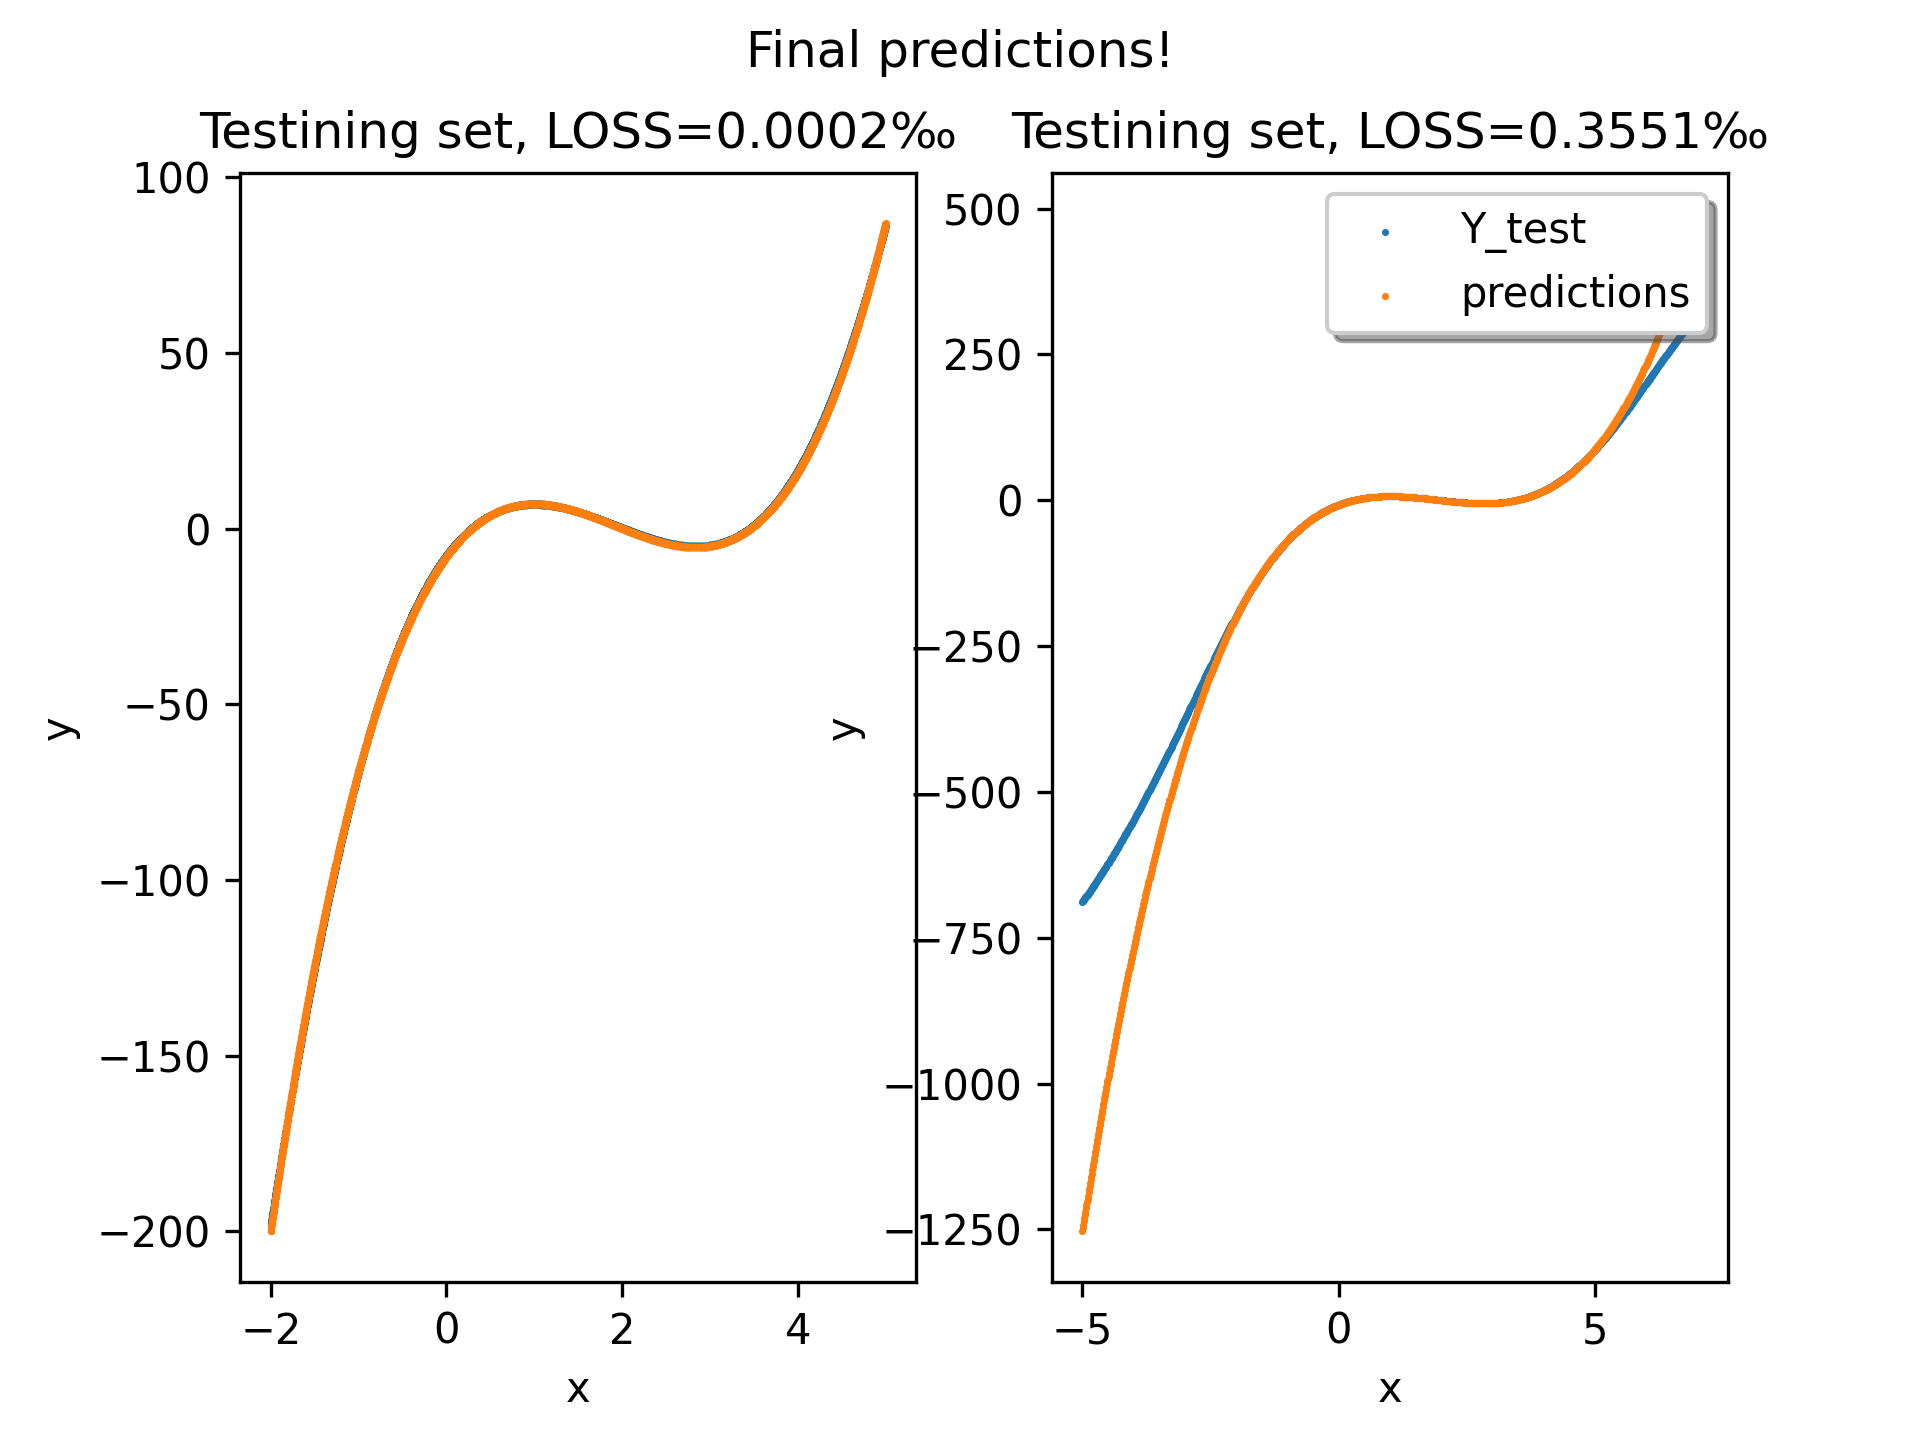
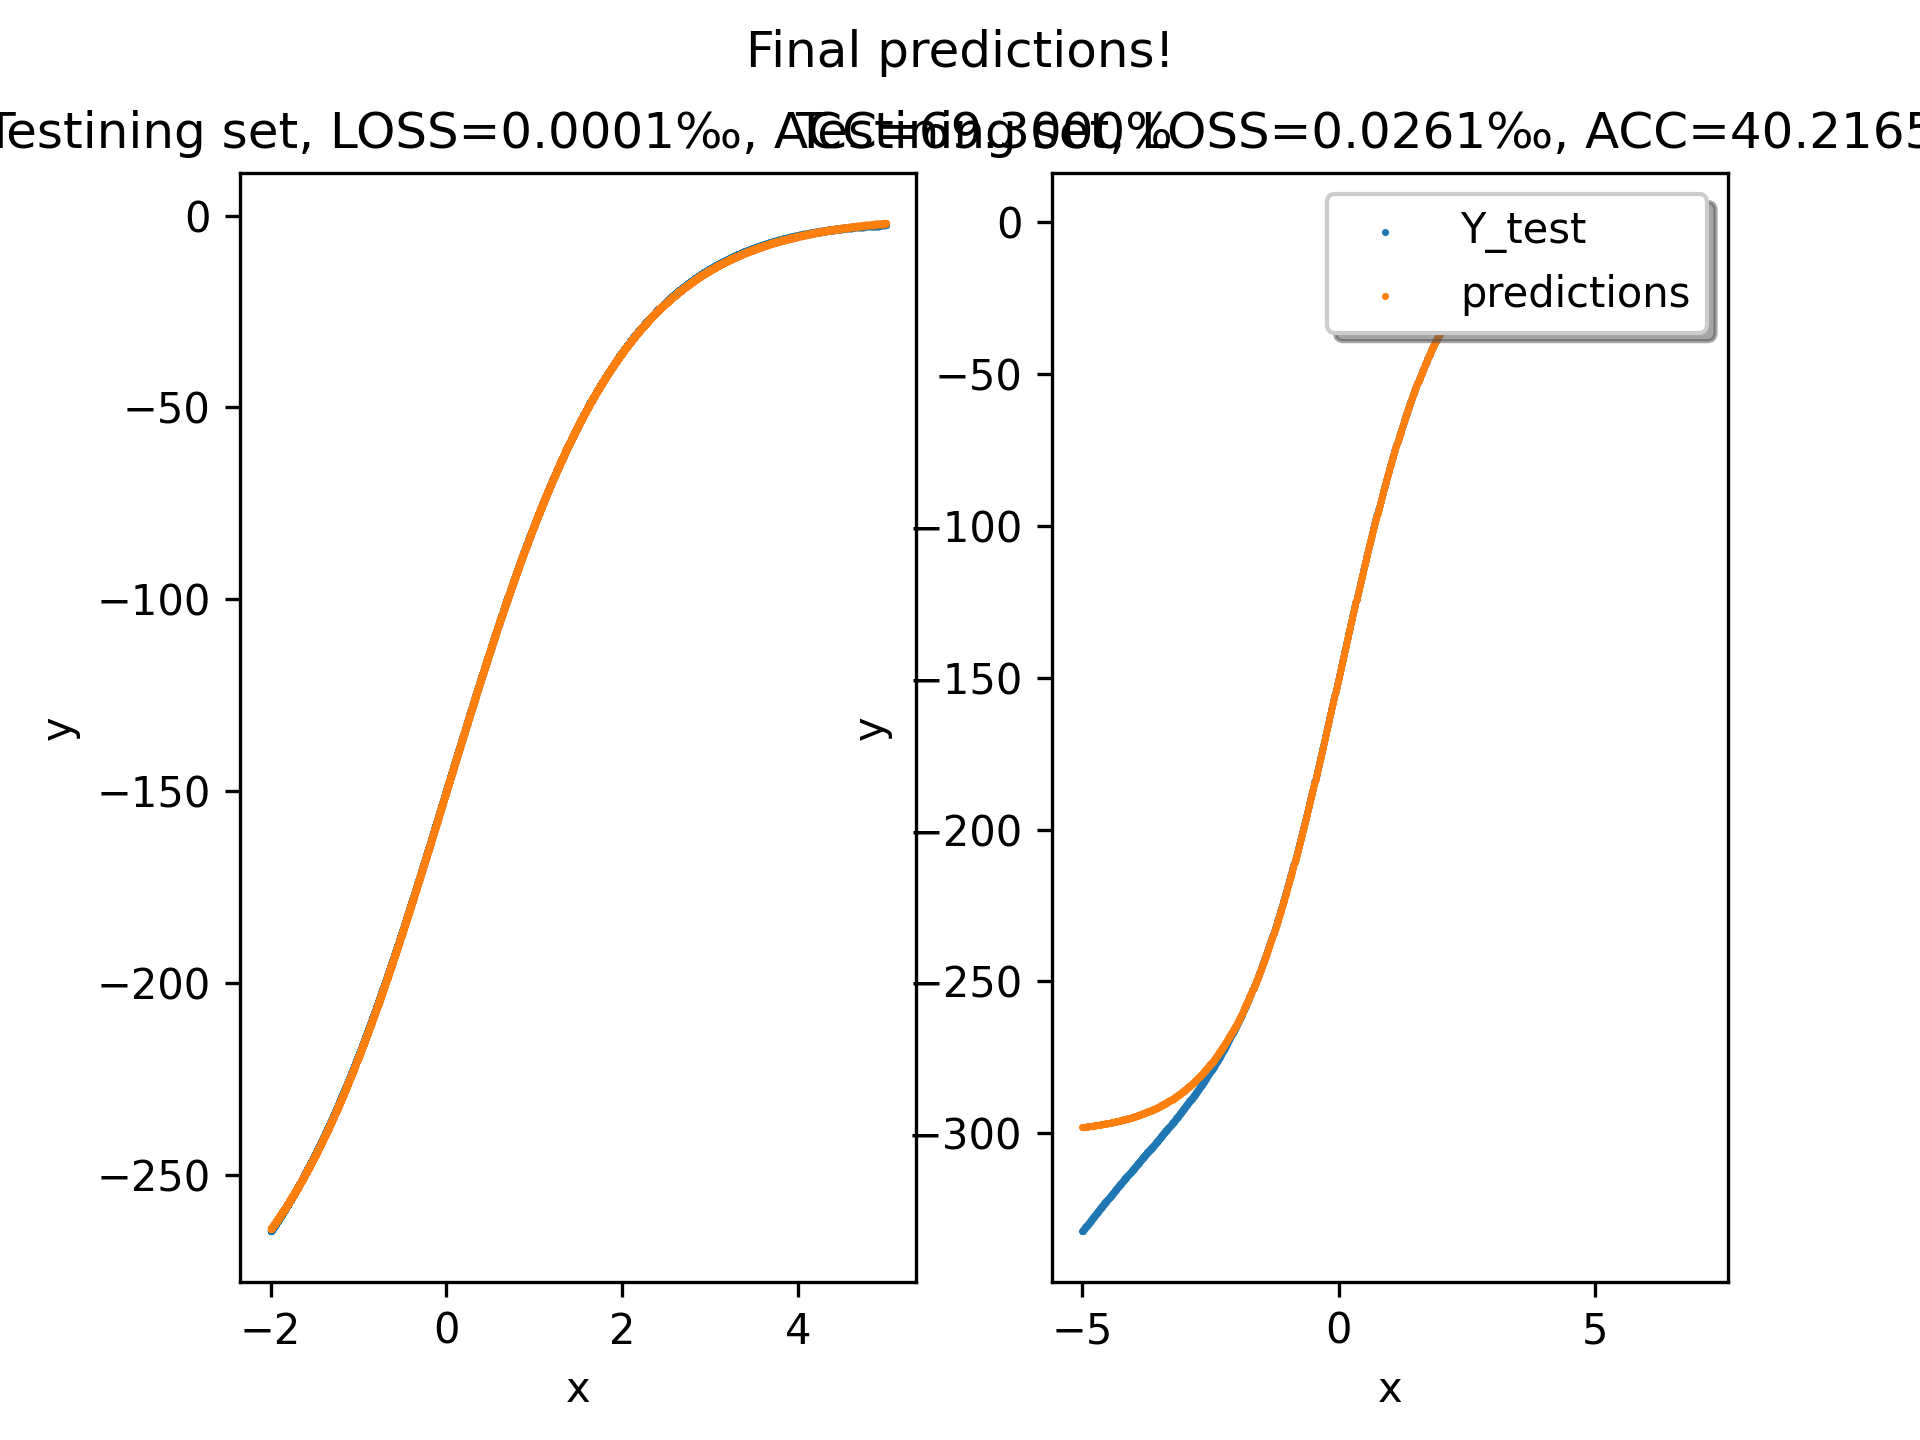
very bad mistake fixed

diff --git a/main.py b/main.py
@@ -24,7 +24,7 @@ def main():
     parser.add_argument('-F', '--file', dest='file', type=str, 
                         choices=('simple', 'three_gauss', 'circles', 'XOR', 'noisyXOR',
                          'activation', 'cube', 'linear', 'multimodal', 'square', 'mnist'), 
-                        default="circles", help='name of file')
+                        default="activation", help='name of file')
 
     parser.add_argument('-H', '--hidden-layers', dest='hidden_layers', type=int,
                         default=1, help='number of hidden layers')
@@ -37,7 +37,7 @@ def main():
 
     parser.add_argument('-p', '--problem', dest='problem', type=str, 
                         choices=('classification', 'regression'),
-                        default='classification', help='type of algorithm')
+                        default='regression', help='type of algorithm')
 
     parser.add_argument('-P', '--process', dest='process', type=int,
                         default=0, help='process number')
@@ -92,10 +92,10 @@ def main():
 
     if args['remote'] == 0:
         print("Loading train and test files")
-    # train_file = read_csv_file(args["problem"], args["file"], 'train', args["size"])
-    # test_file = read_csv_file(args["problem"], args["file"], 'test', args["size"])
-    train_file = read_csv_file_test(args["problem"], args["file"], 'train', args["size"])
-    test_file = read_csv_file_test(args["problem"], args["file"], 'test', args["size"])
+    train_file = read_csv_file(args["problem"], args["file"], 'train', args["size"])
+    test_file = read_csv_file(args["problem"], args["file"], 'test', args["size"])
+    # train_file = read_csv_file_test(args["problem"], args["file"], 'train', args["size"])
+    # test_file = read_csv_file_test(args["problem"], args["file"], 'test', args["size"])
     shuffle_index = np.random.permutation(train_file.shape[0])
     train_file = train_file[shuffle_index]
 
@@ -252,43 +252,51 @@ def main():
         #     "accuracy_verif": [] }
         #  + train_predictions + verif_predictions + test_predictions + decision_surface
         
-        net.train(batch_size, train_verif_ratio, learning_rate, relaxation, timeout, iterations_initial, args['remote'], huber_delta)
+        net.train(batch_size, train_verif_ratio, learning_rate, relaxation, timeout, iterations_initial, args['remote'], args["file"], huber_delta)
         # net.print_myself()
+        X = np.divide( train_set_coords - net.bounds_raw[0], net.bounds_raw[1] - net.bounds_raw[0] )
+        Y = np.divide( train_set_value - net.bounds_raw[2], net.bounds_raw[3] - net.bounds_raw[2] )
+        X_train = np.array([X])
+        Y_train = np.array([Y])
+        X = np.divide( test_set_coords - net.bounds_raw[0], net.bounds_raw[1] - net.bounds_raw[0] )
+        Y = np.divide( test_set_value - net.bounds_raw[2], net.bounds_raw[3] - net.bounds_raw[2] )
+        X_test = np.array([X])
+        Y_test = np.array([Y])
+        predictions_train = net.predict(train_set_coords)
+        predictions_test = net.predict(test_set_coords)
+        predictions_train_norm = np.divide( predictions_train - net.bounds_raw[2], net.bounds_raw[3] - net.bounds_raw[2] )
+        predictions_test_norm = np.divide( predictions_test - net.bounds_raw[2], net.bounds_raw[3] - net.bounds_raw[2] )
+        if args["cost"] == 'cross_entropy':
+            train_loss, accuracy_train = net.cross_entropy_loss(X_train, Y_train)
+            test_loss , accuracy_test = net.cross_entropy_loss(X_test, Y_test)
+        elif args["cost"] == 'pseudo_huber':
+            train_loss, accuracy_train = net.pseudo_huber_loss(X_train, Y_train)
+            test_loss , accuracy_test = net.pseudo_huber_loss(X_test, Y_test)
+        elif args["cost"] == 'mean_squared_error':
+            train_loss, accuracy_train = net.mean_squared_error(X_train, Y_train)
+            test_loss , accuracy_test = net.mean_squared_error(X_test, Y_test)
         if args["remote"] == 0:
-            X = np.divide( train_set_coords - net.bounds_raw[0], net.bounds_raw[1] - net.bounds_raw[0] )
-            Y = np.divide( train_set_value - net.bounds_raw[2], net.bounds_raw[3] - net.bounds_raw[2] )
-            X_train = np.array([X])
-            Y_train = np.array([Y])
-            X = np.divide( test_set_coords - net.bounds_raw[0], net.bounds_raw[1] - net.bounds_raw[0] )
-            Y = np.divide( test_set_value - net.bounds_raw[2], net.bounds_raw[3] - net.bounds_raw[2] )
-            X_test = np.array([X])
-            Y_test = np.array([Y])
-            if args["cost"] == 'cross_entropy':
-                train_loss = net.cross_entropy_loss(X_train, Y_train)
-                test_loss = net.cross_entropy_loss(X_test, Y_test)
-            elif args["cost"] == 'pseudo_huber':
-                train_loss = net.pseudo_huber_loss(X_train, Y_train)
-                test_loss = net.pseudo_huber_loss(X_test, Y_test)
-            elif args["cost"] == 'mean_squared_error':
-                train_loss = net.mean_squared_error(X_train, Y_train)
-                test_loss = net.mean_squared_error(X_test, Y_test)
-            train_predictions = net.predict(train_set_coords)
-            test_predictions = net.predict(test_set_coords)
             fig, (ax0, ax1) = pyplot.subplots(1,2)
             fig.suptitle('Final predictions!')
-            l00 = ax0.scatter(train_set_coords, train_predictions, marker="o",  s=.5)
+            l00 = ax0.scatter(train_set_coords, predictions_train, marker="o",  s=.5)
             l01 = ax0.scatter(train_set_coords, train_set_value, marker="o",  s=.5)
-            l10 = ax1.scatter(test_set_coords, test_predictions, marker="o",  s=.5)
+            l10 = ax1.scatter(test_set_coords, predictions_test, marker="o",  s=.5)
             l11 = ax1.scatter(test_set_coords, test_set_value, marker="o",  s=.5)
-            ax0.set_title('Testining set, LOSS={:.4f}‰'.format(1000*train_loss))
-            ax1.set_title('Testining set, LOSS={:.4f}‰'.format(1000*test_loss))
+            ax0.set_title('Testining set, LOSS={:.4f}‰, ACC={:.4f}%'.format(1000*train_loss, 100*accuracy_train))
+            ax1.set_title('Testining set, LOSS={:.4f}‰, ACC={:.4f}%'.format(1000*test_loss, 100*accuracy_test))
             ax0.set(xlabel='x', ylabel='y')
             ax1.set(xlabel='x', ylabel='y')
             pyplot.legend((l00, l01), ('Y_train', 'predictions'), loc='upper right', shadow=True)
             pyplot.legend((l10, l11), ('Y_test', 'predictions'), loc='upper right', shadow=True)
             pyplot.savefig('final-predictions.png', dpi=300)
             # pyplot.show()
-    print('{}_finished'.format(args['process']))
+        
+        E_train = np.abs( predictions_train_norm[0] - Y_train[0] )
+        E_test = np.abs( predictions_test_norm[0] - Y_test[0] )
+        train_accuracy = np.divide( np.sum( E_train < .001 ), len(E_train) )
+        test_accuracy = np.divide( np.sum( E_test < .001 ), len(E_test) )
+        
+    print( '{}_finished: train_accuracy={},  test_accuracy={}'.format( args['process'], train_accuracy, test_accuracy ) )
     pass
 
     

diff --git a/experiment.py b/experiment.py
@@ -222,19 +222,17 @@ def experiment(args):
         Y_test = np.array([Y])
         predictions_train = net.predict(train_set_coords)
         predictions_test = net.predict(test_set_coords)
-        Y = np.divide( predictions_train - net.bounds_raw[2], net.bounds_raw[3] - net.bounds_raw[2] )
-        predictions_train_norm = np.array([Y])
-        Y = np.divide( predictions_test - net.bounds_raw[2], net.bounds_raw[3] - net.bounds_raw[2] )
-        predictions_test_norm = np.array([Y])
+        predictions_train_norm = np.divide( predictions_train - net.bounds_raw[2], net.bounds_raw[3] - net.bounds_raw[2] )
+        predictions_test_norm = np.divide( predictions_test - net.bounds_raw[2], net.bounds_raw[3] - net.bounds_raw[2] )
         if args["cost"] == 'cross_entropy':
-            train_loss = net.cross_entropy_loss(X_train, Y_train)
-            test_loss = net.cross_entropy_loss(X_test, Y_test)
+            train_loss, accuracy_train = net.cross_entropy_loss(X_train, Y_train)
+            test_loss , accuracy_test = net.cross_entropy_loss(X_test, Y_test)
         elif args["cost"] == 'pseudo_huber':
-            train_loss = net.pseudo_huber_loss(X_train, Y_train)
-            test_loss = net.pseudo_huber_loss(X_test, Y_test)
+            train_loss, accuracy_train = net.pseudo_huber_loss(X_train, Y_train)
+            test_loss , accuracy_test = net.pseudo_huber_loss(X_test, Y_test)
         elif args["cost"] == 'mean_squared_error':
-            train_loss = net.mean_squared_error(X_train, Y_train)
-            test_loss = net.mean_squared_error(X_test, Y_test)
+            train_loss, accuracy_train = net.mean_squared_error(X_train, Y_train)
+            test_loss , accuracy_test = net.mean_squared_error(X_test, Y_test)
         if args["remote"] == 0:
             fig, (ax0, ax1) = pyplot.subplots(1,2)
             fig.suptitle('Final predictions!')
@@ -242,8 +240,8 @@ def experiment(args):
             l01 = ax0.scatter(train_set_coords, train_set_value, marker="o",  s=.5)
             l10 = ax1.scatter(test_set_coords, predictions_test, marker="o",  s=.5)
             l11 = ax1.scatter(test_set_coords, test_set_value, marker="o",  s=.5)
-            ax0.set_title('Testining set, LOSS={:.4f}‰'.format(1000*train_loss))
-            ax1.set_title('Testining set, LOSS={:.4f}‰'.format(1000*test_loss))
+            ax0.set_title('Testining set, LOSS={:.4f}‰, ACC={:.4f}%'.format(1000*train_loss, 100*accuracy_train))
+            ax1.set_title('Testining set, LOSS={:.4f}‰, ACC={:.4f}%'.format(1000*test_loss, 100*accuracy_test))
             ax0.set(xlabel='x', ylabel='y')
             ax1.set(xlabel='x', ylabel='y')
             pyplot.legend((l00, l01), ('Y_train', 'predictions'), loc='upper right', shadow=True)
@@ -251,8 +249,8 @@ def experiment(args):
             pyplot.savefig('final-predictions.png', dpi=300)
             # pyplot.show()
         
-        E_train = np.abs( predictions_train_norm - Y_train )
-        E_test = np.abs( predictions_test_norm - Y_test )
+        E_train = np.abs( predictions_train_norm[0] - Y_train[0] )
+        E_test = np.abs( predictions_test_norm[0] - Y_test[0] )
         train_accuracy = np.divide( np.sum( E_train < .001 ), len(E_train) )
         test_accuracy = np.divide( np.sum( E_test < .001 ), len(E_test) )
         
@@ -261,3 +259,4 @@ def experiment(args):
 
     
 
+# if __name__ == '__main__':

diff --git a/tests.py b/tests.py
@@ -15,8 +15,8 @@ from time import sleep
 import numpy as np
 import pandas as pd
 
-def foo(i, args):
-    return [i/7., args['process']**2/7.]
+def foo(args):
+    return [args['process']/7., args['process']**2/7.]
 
 if __name__ == '__main__':
 
@@ -77,9 +77,9 @@ if __name__ == '__main__':
     
 
     # threaded version
-    pool_classification = ThreadPool(8)
-    results = []
-    data_list = []
+    pool_classification = ThreadPool(10)
+    results_classification = []
+    data_list_classification = []
     for i, case in enumerate(all_cases_classification):
         args = {
             "activation": case[0],
@@ -107,12 +107,24 @@ if __name__ == '__main__':
             "accuracy_train": 0,
             "accuracy_test": 0
         }
-        results.append( pool_classification.apply_async(experiment, args=(args,)) )
-        data_list.append(params)
+        results_classification.append( pool_classification.apply_async(experiment, args=(args,)) )
+        data_list_classification.append(params)
     pool_classification.close()
     pool_classification.join()
     
-    pool_regression = ThreadPool(8)
+
+    results_classification = [ r.get() for r in results_classification ]
+    for i, data_row in enumerate(data_list_classification):
+        data_row["accuracy_train"] = results_classification[i][0]
+        data_row["accuracy_test"] = results_classification[i][1]
+        pass
+    df_classification = pd.DataFrame(data_list_classification)
+    print(df_classification.head())
+    df_classification.to_csv('results_classification.csv', float_format='%.2E')
+
+    pool_regression = ThreadPool(10)
+    results_regression = []
+    data_list_regression = []
     for i, case in enumerate(all_cases_regression):
         args = {
             "activation": case[0],
@@ -140,20 +152,20 @@ if __name__ == '__main__':
             "accuracy_train": 0,
             "accuracy_test": 0
         }
-        results.append( pool_regression.apply_async(experiment, args=(args,)) )
-        data_list.append(params)
+        results_regression.append( pool_regression.apply_async(experiment, args=(args,)) )
+        data_list_regression.append(params)
 
     pool_regression.close()
     pool_regression.join()
-    results = [ r.get() for r in results ]
+    results_regression = [ r.get() for r in results_regression ]
     # print('results: ', results)
-    for i, data_row in enumerate(data_list):
-        data_row["accuracy_train"] = results[i][0]
-        data_row["accuracy_test"] = results[i][1]
+    for i, data_row in enumerate(data_list_regression):
+        data_row["accuracy_train"] = results_regression[i][0]
+        data_row["accuracy_test"] = results_regression[i][1]
         pass
-    df = pd.DataFrame(data_list)
-    print(df.head())
-    df.to_csv('/mnt/foo.csv', float_format='%.2E')
+    df_regression = pd.DataFrame(data_list_regression)
+    print(df_regression.head())
+    df_regression.to_csv('results_regression.csv', float_format='%.2E')
     
 
 

diff --git a/Network.py b/Network.py
@@ -190,7 +190,7 @@ class Network:
             statistics["accuracy_train"].append(accuracy_train)
             statistics["accuracy_verif"].append(accuracy_verif)
             # stop cryterion:
-            if verif_cost < .99 * verif_cost_min:
+            if verif_cost < .98 * verif_cost_min:
                 verif_cost_min = verif_cost
                 timeout_no_improvement = time.time() + 10
             if time.time() > timeout_no_improvement:
@@ -210,9 +210,9 @@ class Network:
                     self.feed_forward(self.X_verif)
                     Y = self.layers[-1].axons_outputs
                     E = np.abs( Y - self.Y_verif )
-                    mse_verif = self.mean_squared_error(self.X_train, self.Y_train)
+                    mse_verif, accuracy_verif = self.mean_squared_error(self.X_train, self.Y_train)
                     print('Mean Squared Error(verif)={:.2f}‰'.format(1000*mse_verif))
-                    print("Accuracy (|Y-Yhat|<{}): {:.2f}%". format(.001, 100 * np.divide( np.sum( E < .001 ), Y.shape[1] ) ) )
+                    print("Accuracy (|Y-Yhat|<{}): {:.2f}%". format(.001, 100 * accuracy_verif ) )
                     ax0.set_title('Veryficating set, MSE={:.2f}‰'.format(1000*mse_verif))
                     X_verif = self.bounds_raw[0] + np.multiply( self.X_verif, self.bounds_raw[1] - self.bounds_raw[0] )
                     Y_verif = self.bounds_raw[2] + np.multiply( self.Y_verif, self.bounds_raw[3] - self.bounds_raw[2] )
@@ -223,9 +223,9 @@ class Network:
                     self.feed_forward(self.X_train)
                     Y = self.layers[-1].axons_outputs
                     E = np.abs( Y - self.Y_train )
-                    mse_train = self.mean_squared_error(self.X_verif, self.Y_verif)
+                    mse_train, accuracy_train = self.mean_squared_error(self.X_verif, self.Y_verif)
                     print('Mean Squared Error(train)={:.2f}‰'.format(1000*mse_train))
-                    print("Accuracy (|Y-Yhat|<{}): {:.2f}%". format(.001, 100 * np.divide( np.sum( E < .001 ), Y.shape[1] ) ) )
+                    print("Accuracy (|Y-Yhat|<{}): {:.2f}%". format(.001, 100 * accuracy_train ) )
                     ax1.set_title('Training set, MSE={:.2f}‰'.format(1000*mse_train))
                     ax1.set(xlabel='x', ylabel='y')
                     X_train = self.bounds_raw[0] + np.multiply( self.X_train, self.bounds_raw[1] - self.bounds_raw[0] )
